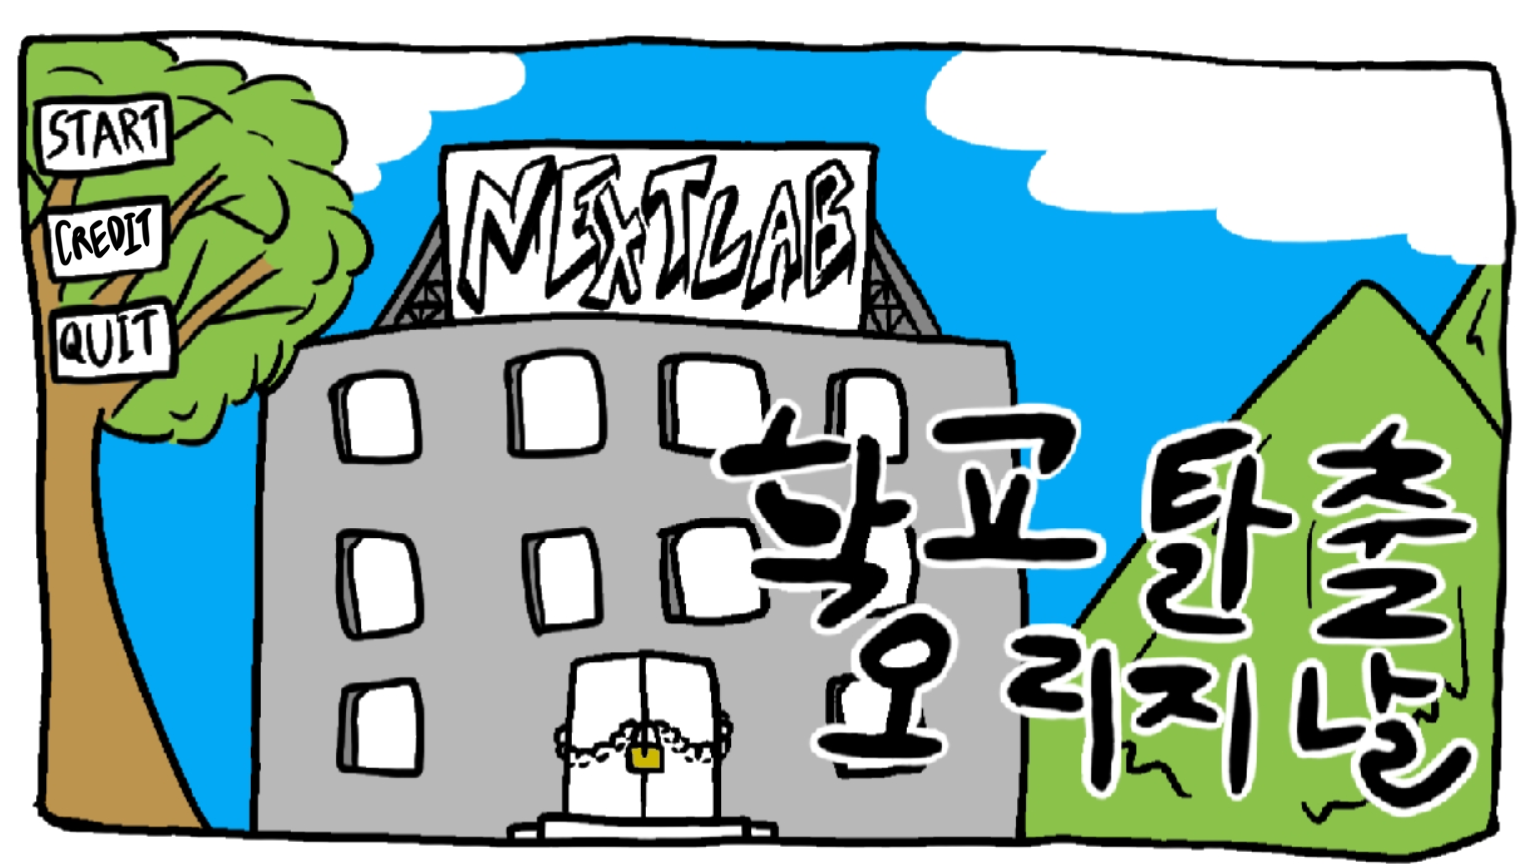
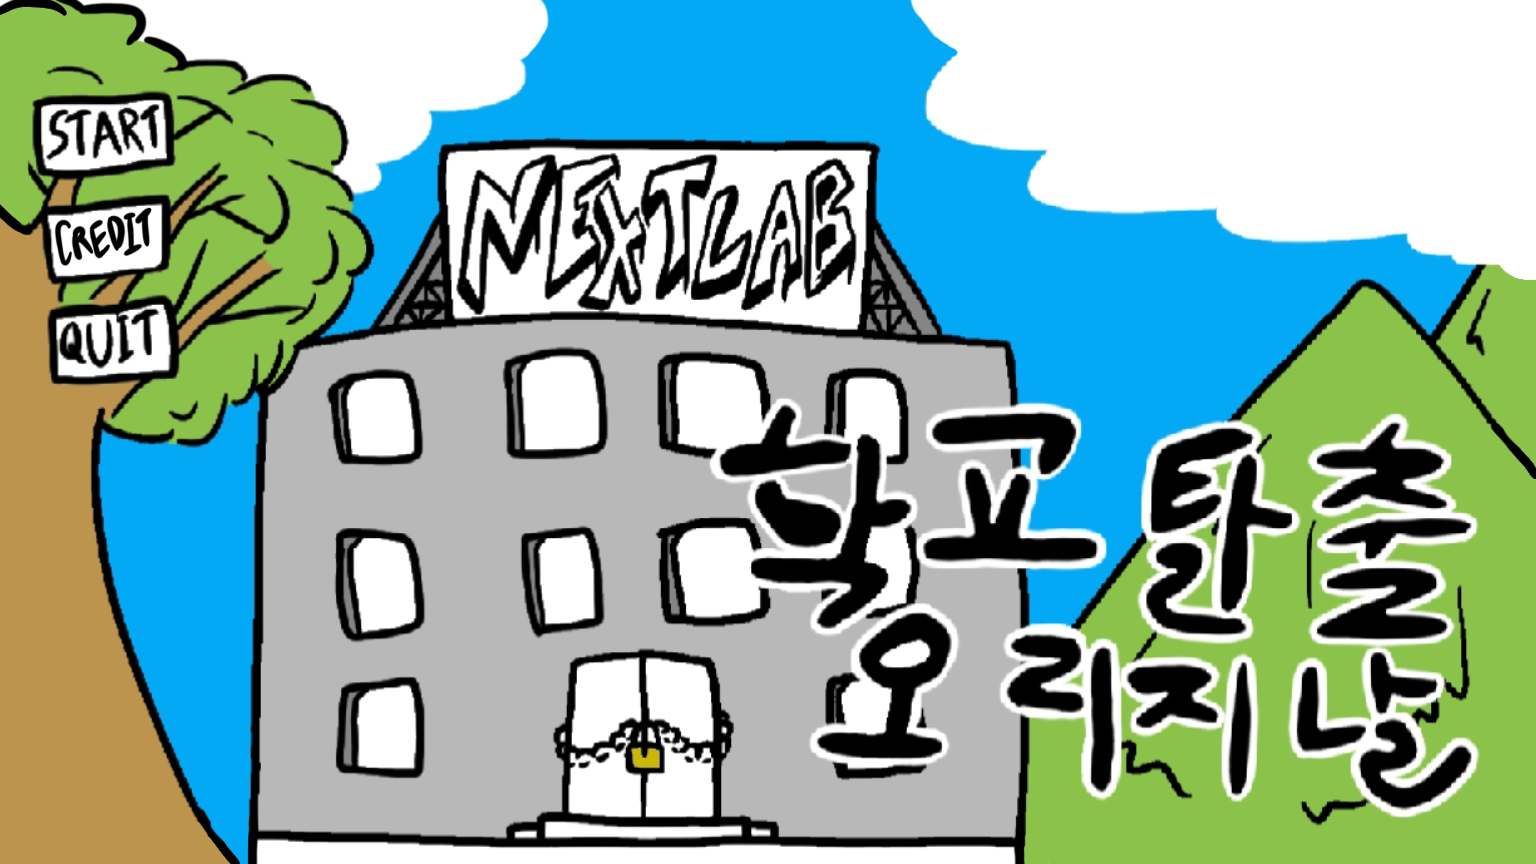
2025/12/22/4:40 @Thunderman48
updated background image. moved buttons to position. added title_screen.png for stage 1

~main.py
~title_screem.png
+stage_1_baclgound.png

Changed region(s): [[0.0, 0.0, 1.0, 1.0]]

diff --git a/main.py b/main.py
@@ -36,24 +36,18 @@ title_font = pygame.font.Font(None, 120)
 button_font = pygame.font.Font(None, 80)
 timer_font = pygame.font.Font(None, 50)
 
-title_image = pygame.image.load('title.png').convert_alpha()
-title_rect = title_image.get_rect(bottomright=(screen_width - 20, screen_height - 20))
+title_image = pygame.image.load('title_screen.png').convert()
+title_image = pygame.transform.scale(title_image, (screen_width, screen_height))
+title_rect = title_image.get_rect(topleft=(0, 0))
 
 player_image = pygame.image.load('test_image.png').convert_alpha()
 player_image = pygame.transform.scale(player_image, (50, 70))
+player_rect = player_image.get_rect()
 
 # Button positioning
-y_pos = 20
-start_text = button_font.render("Start", True, WHITE)
-start_rect = start_text.get_rect(topleft=(20, y_pos))
-
-y_pos += start_rect.height + 20
-credits_text = button_font.render("Credits", True, WHITE)
-credits_rect = credits_text.get_rect(topleft=(20, y_pos))
-
-y_pos += credits_rect.height + 20
-quit_text = button_font.render("Quit", True, WHITE)
-quit_rect = quit_text.get_rect(topleft=(20, y_pos))
+start_rect = pygame.Rect(30, 94, 146, 84)
+credits_rect = pygame.Rect(39, 196, 129, 83)
+quit_rect = pygame.Rect(44, 296, 135, 81)
 
 credits_content_text = title_font.render("Made by NEXTLAB", True, WHITE)
 credits_content_rect = credits_content_text.get_rect(center=(screen_width / 2, screen_height / 2))
@@ -99,7 +93,7 @@ stage_obstacles = {
 table_coords = [
     (301, 156), (261, 679), (343, 700), (593, 451), (618, 750),
     (812, 700), (923, 241), (1175, 730), (1258, 449), (1400, 223),
-    (100, 100), (100, 300), (100, 500), (1000, 100), (1000, 500)
+    (100, 300), (100, 300), (100, 500), (1000, 100), (1000, 500)
 ]
 chair_coords = [
     (187, 750), (711, 226), (1006, 700), (1394, 730), (1349, 199),
@@ -170,13 +164,13 @@ while running:
                 credit_renders = [] # Clear credits for next time
 
     # --- Game Logic ---
-    # Get mouse position to use as the character's position
-    player_pos = pygame.mouse.get_pos()
-
-    # Create a rect for the player for collision detection, centered on the mouse
-    player_rect = player_image.get_rect(center=player_pos)
-
     if game_state == 'game':
+        # Get mouse position to use as the character's position
+        player_pos = pygame.mouse.get_pos()
+
+        # Create a rect for the player for collision detection, centered on the mouse
+        player_rect = player_image.get_rect(center=player_pos)
+
         # Check for collision with obstacles
         for obstacle in stage_obstacles.get(current_stage, []):
             if isinstance(obstacle, dict):
@@ -200,12 +194,11 @@ while running:
     # --- Drawing ---
     if game_state == 'start_menu':
         pygame.mouse.set_visible(True)
-        screen.fill(BLACK)
-        # Draw title and buttons
+        # Draw title image
         screen.blit(title_image, title_rect)
-        screen.blit(start_text, start_rect)
-        screen.blit(credits_text, credits_rect)
-        screen.blit(quit_text, quit_rect)
+        
+        
+        # The buttons are now invisible but still clickable.
 
     elif game_state == 'credits':
         pygame.mouse.set_visible(True)
@@ -222,6 +215,14 @@ while running:
         screen.fill(stage_backgrounds.get(current_stage, WHITE))
         current_goal_rect = stage_goals.get(current_stage)
         pygame.draw.rect(screen, GREEN, current_goal_rect)
+        
+        # Draw the obstacles
+        for obstacle in stage_obstacles.get(current_stage, []):
+            if isinstance(obstacle, dict):
+                screen.blit(obstacle['image'], obstacle['rect'])
+            else:
+                pygame.draw.rect(screen, BLACK, obstacle)
+        
         screen.blit(player_image, player_rect)
 
         # Increase alpha and draw the fade surface
